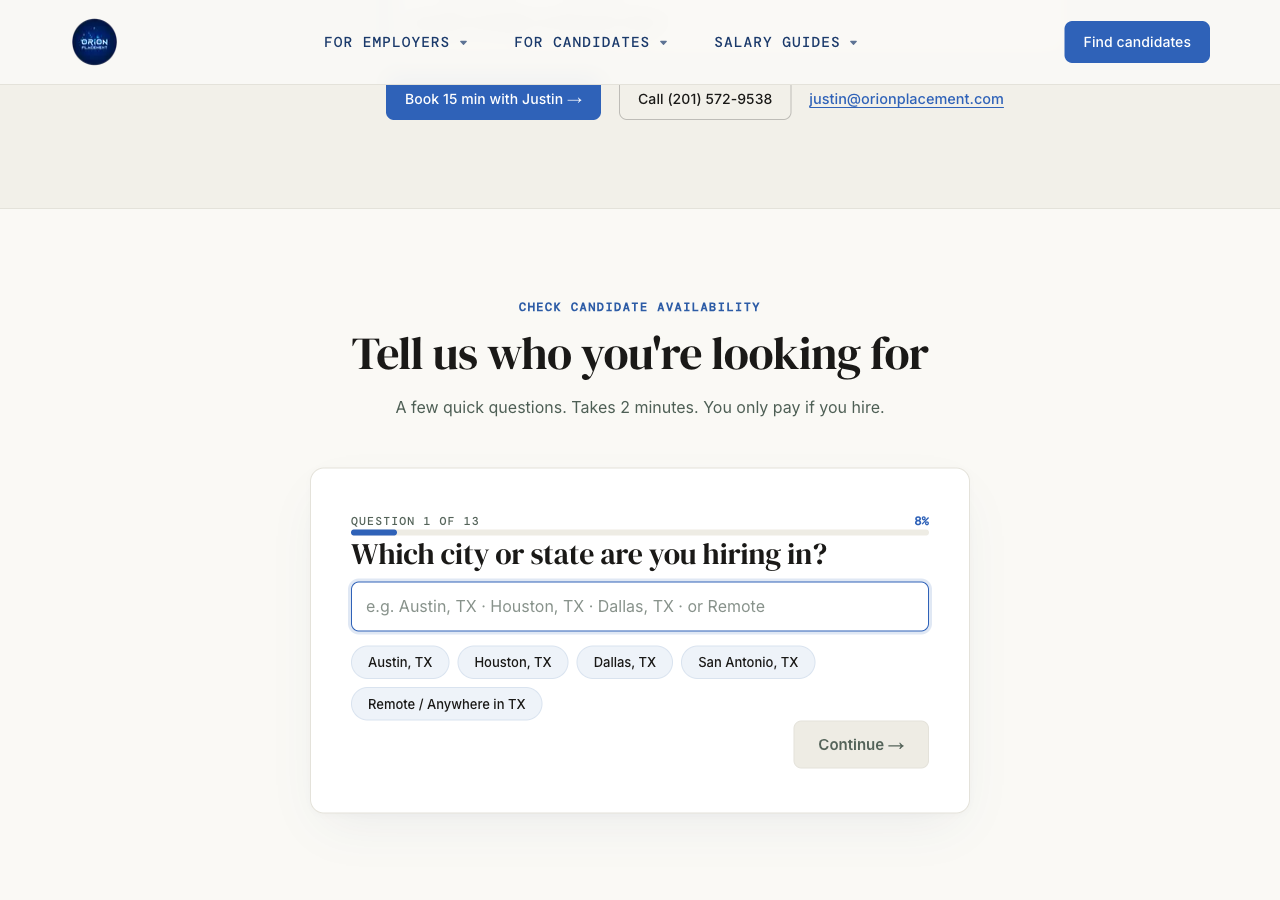
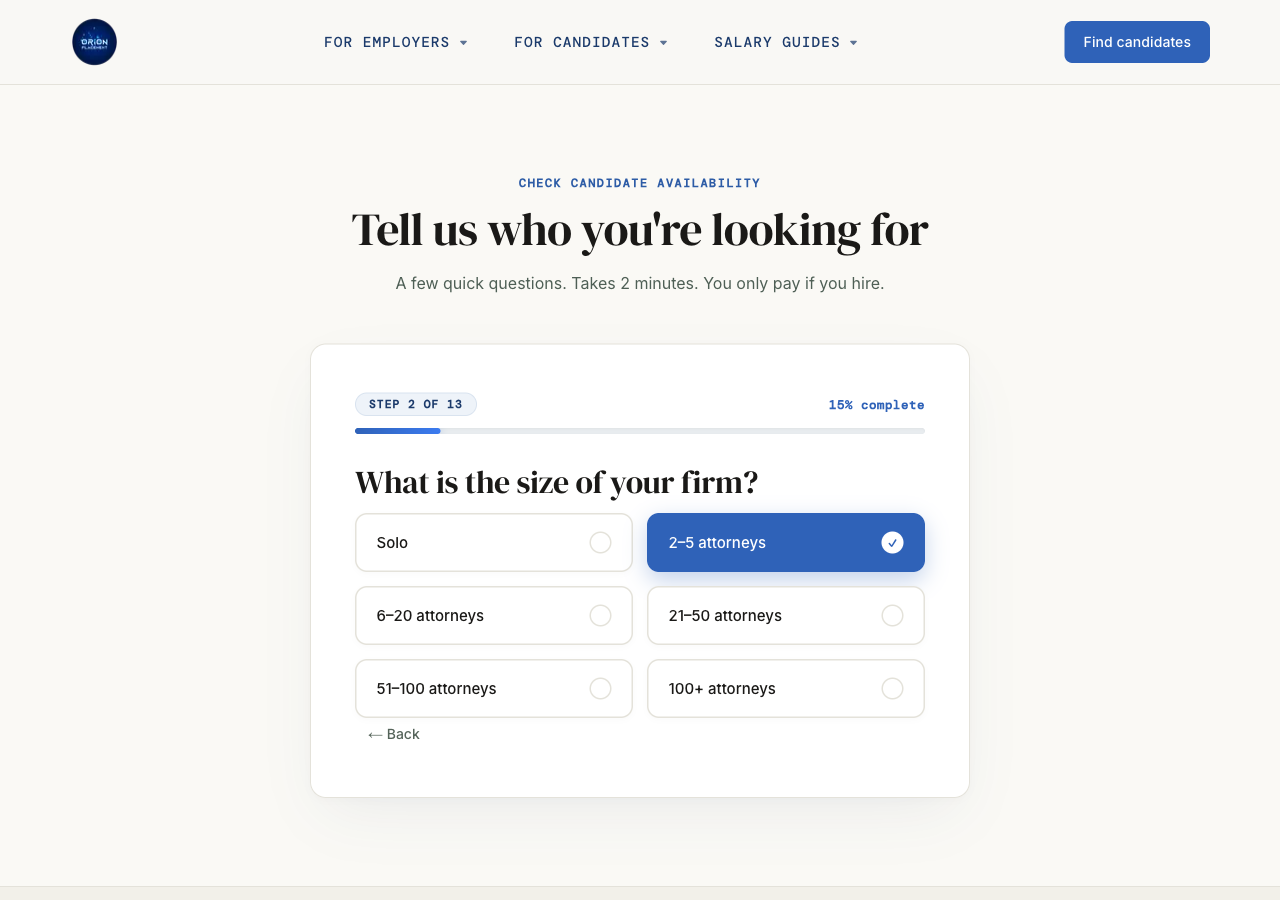
fix(questionnaire): premium decoupled progress bar with pill badges, generous spacing, and luxury choice indicators

diff --git a/src/app/globals.css b/src/app/globals.css
@@ -3335,6 +3335,9 @@ body.clean .reviews-sec .mark{background:none;border:0}
   max-width: 660px;
   margin: 0 auto;
 }
+#questionnaire {
+  scroll-margin-top: 100px;
+}
 
 /* BOTTOM CTA */
 .ha-bottom-cta {
@@ -3379,49 +3382,70 @@ body.clean .reviews-sec .mark{background:none;border:0}
 
 .q-card-box {
   background: var(--white);
-  border-radius: 14px;
-  padding: 36px 30px;
+  border-radius: 16px;
+  padding: 38px 30px;
   border: 1px solid var(--rule);
-  box-shadow: 0 20px 50px -15px rgba(27, 58, 107, 0.08), 0 2px 6px rgba(0, 0, 0, 0.02);
+  box-shadow: 0 24px 60px -15px rgba(27, 58, 107, 0.08), 0 2px 8px rgba(0, 0, 0, 0.02);
   text-align: left;
 }
 @media (min-width: 640px) {
   .q-card-box {
-    padding: 44px 40px;
+    padding: 48px 44px;
   }
 }
 
-.q-progress-step {
-  font: 500 11.5px/1.4 var(--mono);
-  letter-spacing: 0.1em;
+/* PROGRESS BAR & HEADER */
+.q-progress-wrap {
+  margin-bottom: 28px;
+}
+.q-progress-meta {
+  display: flex;
+  align-items: center;
+  justify-content: space-between;
+  gap: 12px;
+  margin-bottom: 12px;
+}
+.q-step-badge {
+  display: inline-flex;
+  align-items: center;
+  gap: 6px;
+  padding: 5px 13px;
+  border-radius: 999px;
+  background: var(--ice);
+  border: 1px solid var(--ice-line);
+  color: var(--navy);
+  font: 600 11.5px/1 var(--mono);
+  letter-spacing: 0.08em;
   text-transform: uppercase;
-  color: var(--ink-3);
 }
-.q-progress-pct {
-  font: 600 12px/1.4 var(--mono);
+.q-pct-badge {
+  font: 600 12.5px/1 var(--mono);
   color: var(--pop);
+  letter-spacing: 0.04em;
 }
-
-.q-progress-bar-bg {
+.q-progress-track {
+  width: 100%;
   height: 6px;
-  background: var(--rule-2);
+  background: #E8ECEF;
   border-radius: 9999px;
   overflow: hidden;
+  box-shadow: inset 0 1px 2px rgba(0, 0, 0, 0.04);
 }
-.q-progress-bar-fill {
+.q-progress-fill {
   height: 100%;
-  background: var(--pop);
+  background: linear-gradient(90deg, var(--pop) 0%, #3B7BF0 100%);
   border-radius: 9999px;
-  transition: width 0.3s ease;
+  transition: width 0.35s cubic-bezier(0.16, 1, 0.3, 1);
+  box-shadow: 0 0 10px rgba(47, 98, 184, 0.35);
 }
 
 .q-title {
   font-family: var(--display) !important;
-  font-size: clamp(23px, 2.8vw, 30px) !important;
+  font-size: clamp(24px, 2.8vw, 32px) !important;
   font-weight: 400 !important;
   color: var(--head) !important;
-  line-height: 1.2 !important;
-  margin: 0 0 10px !important;
+  line-height: 1.22 !important;
+  margin: 0 0 12px !important;
 }
 .q-sub-text {
   font-size: 15px;
@@ -3568,13 +3592,16 @@ body.clean .reviews-sec .mark{background:none;border:0}
   font: 500 14px var(--body);
   color: var(--ink-3);
   background: none;
-  border: 0;
-  padding: 8px 0;
+  border: 1px solid transparent;
+  border-radius: 6px;
+  padding: 6px 12px;
   cursor: pointer;
-  transition: color var(--t-fast) var(--ease);
+  transition: all var(--t-fast) var(--ease);
 }
 .q-btn-back:hover {
   color: var(--head);
+  background: var(--ice);
+  border-color: var(--ice-line);
 }
 
 .q-btn-skip {
@@ -3608,11 +3635,15 @@ body.clean .reviews-sec .mark{background:none;border:0}
 
 .q-choice-btn {
   width: 100%;
+  display: flex;
+  align-items: center;
+  justify-content: space-between;
+  gap: 14px;
   text-align: left;
-  border-radius: 10px;
+  border-radius: 12px;
   border: 1.5px solid var(--rule);
   background: var(--white);
-  padding: 16px 20px;
+  padding: 17px 20px;
   font: 500 15px/1.35 var(--body);
   color: var(--head);
   cursor: pointer;
@@ -3629,7 +3660,31 @@ body.clean .reviews-sec .mark{background:none;border:0}
   border-color: var(--pop);
   background: var(--pop);
   color: #ffffff;
-  box-shadow: 0 6px 18px rgba(47, 98, 184, 0.25);
+  box-shadow: 0 8px 22px rgba(47, 98, 184, 0.28);
+}
+.q-choice-label {
+  flex: 1;
+}
+.q-choice-indicator {
+  width: 22px;
+  height: 22px;
+  border-radius: 50%;
+  border: 1.5px solid var(--rule);
+  display: inline-flex;
+  align-items: center;
+  justify-content: center;
+  font-size: 11px;
+  font-weight: 700;
+  flex-shrink: 0;
+  transition: all var(--t-fast) var(--ease);
+}
+.q-choice-btn:hover .q-choice-indicator {
+  border-color: var(--pop);
+}
+.q-choice-btn.selected .q-choice-indicator {
+  border-color: #ffffff;
+  background: #ffffff;
+  color: var(--pop);
 }
 
 .q-fee-btn {

diff --git a/src/app/hire-attorneys/Questionnaire.tsx b/src/app/hire-attorneys/Questionnaire.tsx
@@ -186,7 +186,9 @@ export function Questionnaire() {
   // Scroll to questionnaire on step change
   const scrollToCard = () => {
     if (cardRef.current) {
-      const top = cardRef.current.getBoundingClientRect().top + window.scrollY - 80;
+      const section = document.getElementById("questionnaire");
+      const target = section || cardRef.current;
+      const top = target.getBoundingClientRect().top + window.scrollY - 85;
       window.scrollTo({ top, behavior: "smooth" });
     }
   };
@@ -264,8 +266,14 @@ export function Questionnaire() {
   if (viewState === "booking") {
     return (
       <div ref={cardRef} className="q-card-box step-in">
-        <div className="q-progress-bar-bg">
-          <div className="q-progress-bar-fill" style={{ width: "100%" }} />
+        <div className="q-progress-wrap">
+          <div className="q-progress-meta">
+            <span className="q-step-badge">Final Step</span>
+            <span className="q-pct-badge">100% complete</span>
+          </div>
+          <div className="q-progress-track">
+            <div className="q-progress-fill" style={{ width: "100%" }} />
+          </div>
         </div>
 
         <p className="q-eyebrow-accent">YOU&apos;RE ALMOST DONE</p>
@@ -446,15 +454,17 @@ export function Questionnaire() {
   return (
     <div ref={cardRef} className="q-card-box step-in">
       {/* TOP PROGRESS BAR */}
-      <div className="flex items-center justify-between mb-3 text-xs font-semibold">
-        <span className="q-progress-step">
-          Question {currentIndex + 1} of {QUESTIONS.length}
-        </span>
-        <span className="q-progress-pct">{progressPercent}%</span>
-      </div>
+      <div className="q-progress-wrap">
+        <div className="q-progress-meta">
+          <span className="q-step-badge">
+            Step {currentIndex + 1} of {QUESTIONS.length}
+          </span>
+          <span className="q-pct-badge">{progressPercent}% complete</span>
+        </div>
 
-      <div className="q-progress-bar-bg mb-6">
-        <div className="q-progress-bar-fill" style={{ width: `${progressPercent}%` }} />
+        <div className="q-progress-track" role="progressbar" aria-valuenow={progressPercent} aria-valuemin={0} aria-valuemax={100}>
+          <div className="q-progress-fill" style={{ width: `${progressPercent}%` }} />
+        </div>
       </div>
 
       {/* CALLOUT INTRO IF PRESENT */}
@@ -542,7 +552,7 @@ export function Questionnaire() {
       {/* 2. CHOICE TYPE */}
       {currentQ.kind === "choice" && (
         <div className="mt-6">
-          <div className="grid grid-cols-1 sm:grid-cols-2 gap-3">
+          <div className="grid grid-cols-1 sm:grid-cols-2 gap-3.5">
             {(currentQ.options || []).map((opt) => {
               const isSelected = answers[currentQ.id] === opt && !isOtherSelected;
               return (
@@ -556,7 +566,10 @@ export function Questionnaire() {
                   }}
                   className={`q-choice-btn ${isSelected ? "selected" : ""}`}
                 >
-                  {opt}
+                  <span className="q-choice-label">{opt}</span>
+                  <span className="q-choice-indicator" aria-hidden="true">
+                    {isSelected ? "✓" : ""}
+                  </span>
                 </button>
               );
             })}
@@ -567,7 +580,10 @@ export function Questionnaire() {
                 onClick={() => setIsOtherSelected(true)}
                 className={`q-choice-btn ${isOtherSelected ? "selected" : ""}`}
               >
-                {currentQ.otherOption}
+                <span className="q-choice-label">{currentQ.otherOption}</span>
+                <span className="q-choice-indicator" aria-hidden="true">
+                  {isOtherSelected ? "✓" : ""}
+                </span>
               </button>
             )}
           </div>
